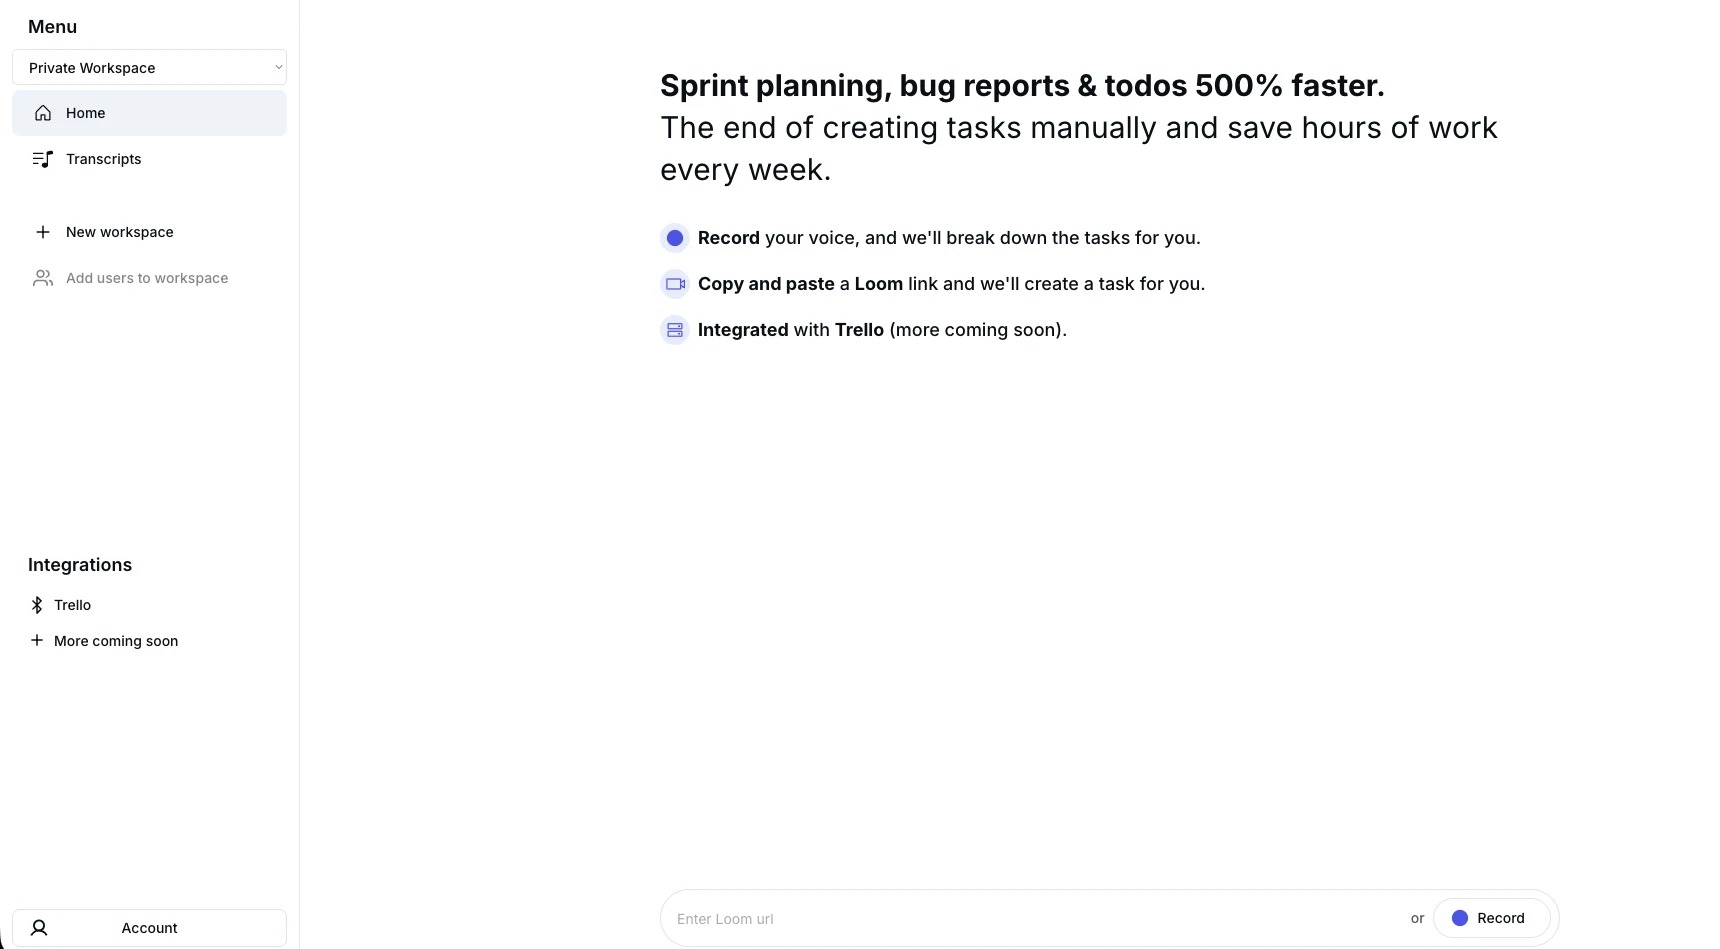
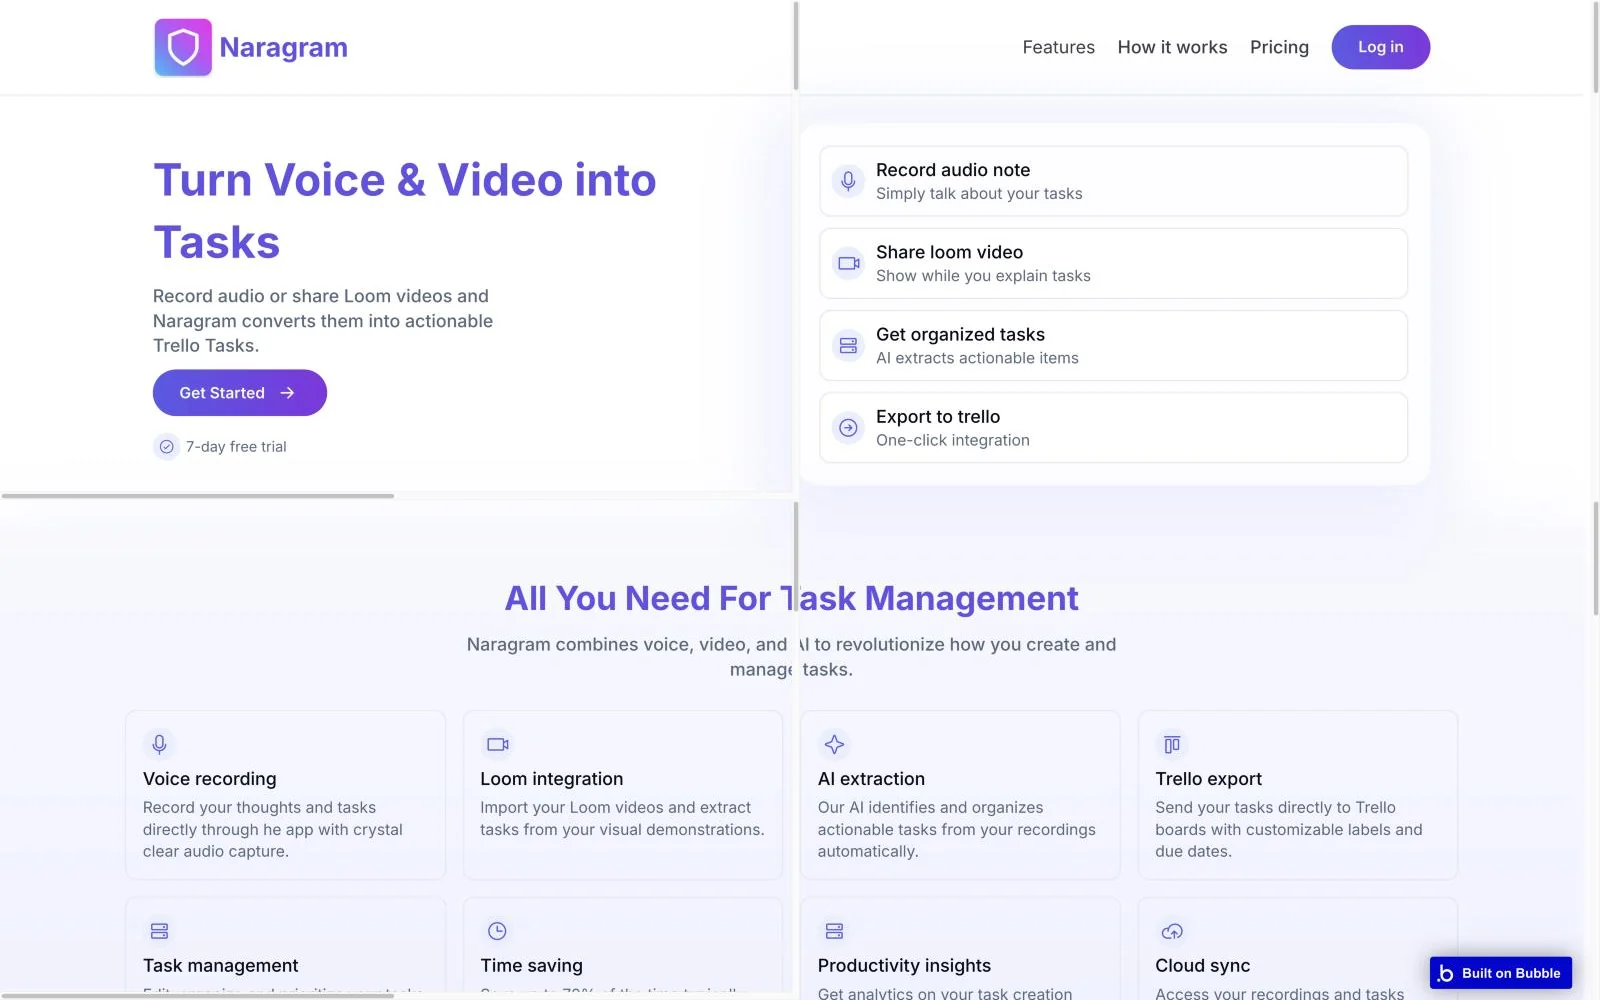
Landing de Naragram
Claude-Session: https://claude.ai/code/session_013RqpUg8CUXH8mTNbHMMy1u

diff --git a/main.js b/main.js
@@ -117,7 +117,8 @@ const PROJECTS = [
       en: ['Input: a voice note, a Loom video or a meeting transcript.', 'Output: actionable tasks sent to Trello, with Jira and ClickUp on the roadmap.', 'Shared workspaces for the whole team.']
     },
     shots: [
-      { src: 'assets/shots/naragram-1.webp', es: 'Pantalla de inicio de Naragram', en: 'Naragram home screen' }
+      { src: 'assets/shots/naragram-1.webp', es: 'Landing de Naragram', en: 'Naragram landing page' },
+      { src: 'assets/shots/naragram-2.webp', es: 'Dentro de la app: grabar o pegar un Loom', en: 'Inside the app: record or paste a Loom link' }
     ]
   },
   {
